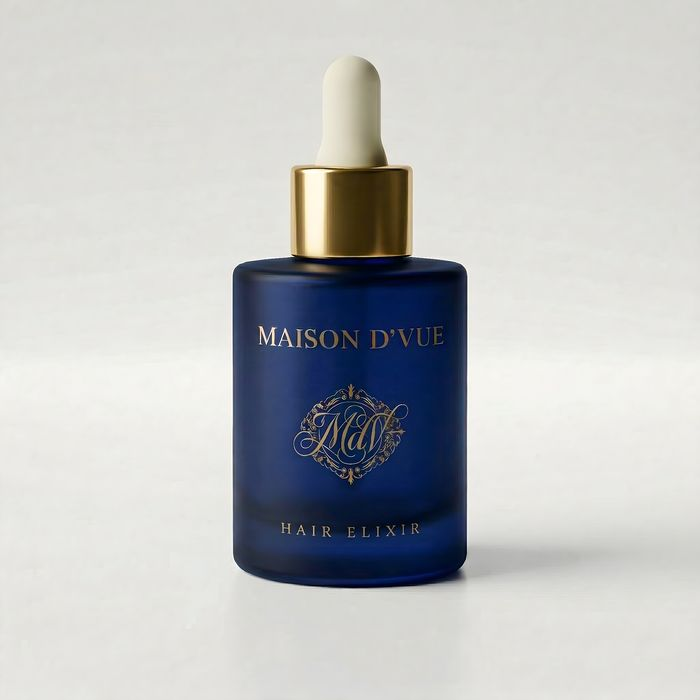
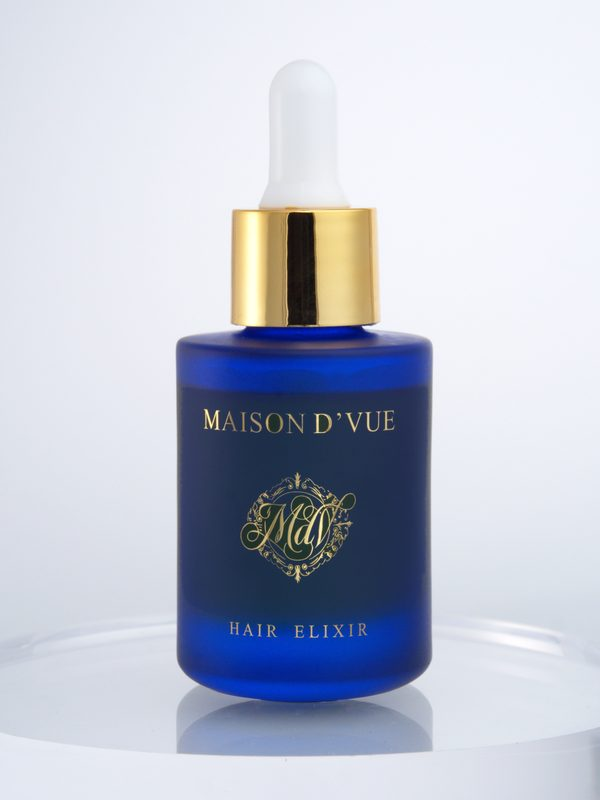
Swap in the studio bottle photograph and add a buy button
Replaces the render with Daria's studio shot at its native 3:4, kept
whole rather than cropped square so the dropper and base reflection
survive. Versioned to ?v=2 so anyone holding the old square file in cache
gets the new one.

The buy button posts the 30ml Signature to the cart and lands on
checkout. Variant id and the add itself were verified against the live
shop — 302 to /checkout, cart reads 1 x $125. Outlined rather than
filled, so it stays behind Join the List in the hierarchy.

diff --git a/waitlist/index.html b/waitlist/index.html
@@ -14,7 +14,7 @@
 <meta property="og:type" content="website">
 <meta property="og:url" content="https://maisondvue.com/waitlist">
 <meta property="og:site_name" content="MAISON D&rsquo;VUE">
-<meta property="og:image" content="https://maisondvue.com/waitlist/elixir.jpg">
+<meta property="og:image" content="https://maisondvue.com/waitlist/elixir.jpg?v=2">
 <meta name="twitter:card" content="summary_large_image">
 
 <link rel="icon" type="image/svg+xml" href="/favicon.svg?v=4">
@@ -177,6 +177,21 @@
     font-size:14px;color:var(--mid);line-height:1.8;
   }
   .replaces strong{font-weight:500;color:var(--ink)}
+
+  /* Buy — outlined, not filled. The page's one action is the list; this is
+     the door for anyone who would rather not wait, and must not outrank it. */
+  .buy{margin-top:26px}
+  .buy-btn{
+    display:block;width:100%;padding:15px 20px;
+    background:transparent;color:var(--ink);border:1px solid var(--ink);
+    font-size:11px;letter-spacing:0.26em;text-transform:uppercase;font-weight:400;
+    text-align:center;cursor:pointer;border-radius:0;
+    transition:background 260ms var(--ease),color 260ms var(--ease);
+  }
+  .buy-btn:hover{background:var(--ink);color:#FFFFFF}
+  .buy-note{
+    margin-top:11px;font-size:11px;color:var(--soft);text-align:center;
+  }
 
   /* The story ------------------------------------------------------------ */
   .story{
@@ -366,9 +381,9 @@
   <!-- ═══ THE PRODUCT — one image, the price, what it replaces ═══ -->
   <section class="product rev">
     <figure class="product-figure">
-      <img src="elixir.jpg" srcset="elixir-sm.jpg 700w, elixir.jpg 1400w"
+      <img src="elixir.jpg?v=2" srcset="elixir-sm.jpg?v=2 600w, elixir.jpg?v=2 1200w"
            sizes="(max-width:760px) 88vw, 50vw"
-           width="1400" height="1400"
+           width="1200" height="1600"
            alt="The MAISON D&rsquo;VUE VUE 14 Hair &Eacute;lixir in its cobalt glass bottle with a gold dropper cap." fetchpriority="high">
     </figure>
     <div class="product-detail">
@@ -386,6 +401,16 @@
         A leave-in, a shine serum, a frizz cream, and a treatment for dry ends &mdash;
         four bottles down to five drops. No silicones, sulfates, parabens, or mineral oils.
       </p>
+
+      <!-- Adds the 30ml Signature and hands the guest straight to checkout.
+           Variant id verified live against the shop before wiring. -->
+      <form class="buy" method="post" action="https://shop.maisondvue.com/cart/add">
+        <input type="hidden" name="id" value="48287241339128">
+        <input type="hidden" name="quantity" value="1">
+        <input type="hidden" name="return_to" value="/checkout">
+        <button type="submit" class="buy-btn">Buy the Elixir &mdash; $125</button>
+      </form>
+      <p class="buy-note">The Signature, 30 ml &middot; ships from Beverly Hills</p>
     </div>
   </section>
 
